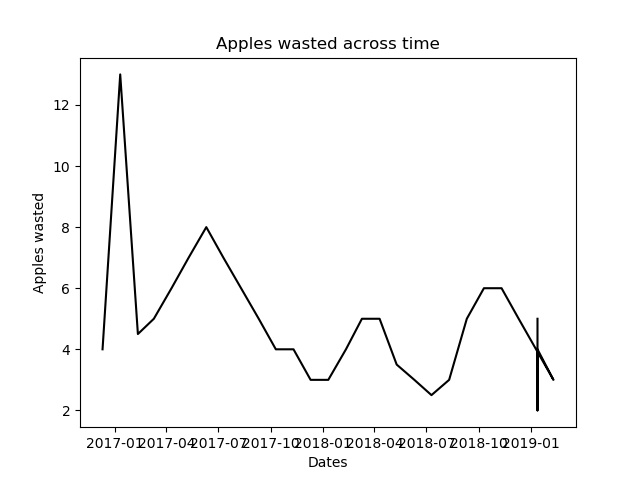
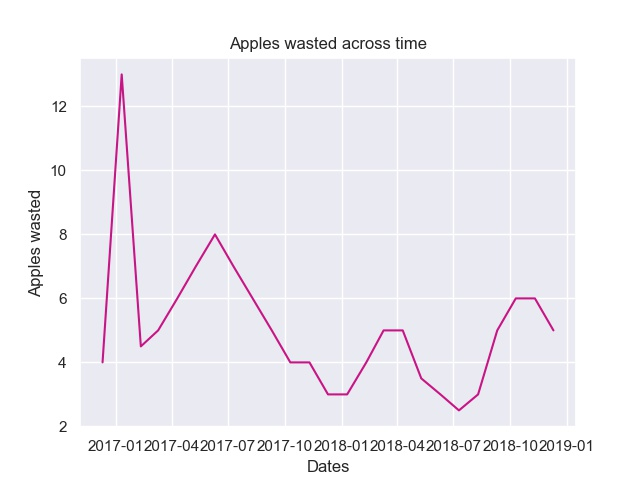
Frontend better

diff --git a/ooglorp/templates/index.html b/ooglorp/templates/index.html
@@ -63,7 +63,11 @@
 									<p class="para">{{food.amount}} of {{food.name}}, they expire on {{food.expiration}}</p>
 							</div>
 							<ul class="post-footer">
-								<li><form method = "post"><input type="submit" name="{{food.key}}" value="Pick Up"/></form></li>
+								<li><input type="submit" name="{{food.key}}" value="Pick Up" style="
+									border: none;
+				  color: black;
+				  padding: 10px 40px;
+				  cursor: pointer;"/></li>
 							</ul>
 						</div><!-- single-post -->
 

diff --git a/ooglorp/templates/stats.html b/ooglorp/templates/stats.html
@@ -67,9 +67,17 @@
 			</form>
 		</div>
 	</section><!-- section -->
-
-	<img src="{% static 'images/wasted.jpg' %}">
-	<img src="{% static 'images/ordered.jpg' %}">
+	<style>
+	img.two {
+	display: block;
+	margin-left: auto;
+	margin-right: auto;
+	height: 70%;
+	width: 50%;
+	}
+	</style>
+	<img class="two" src="{% static 'images/wasted.jpg' %}">
+	<img class="two" src="{% static 'images/ordered.jpg' %}">
 
 
 	<footer>

diff --git a/ooglorp/views.py b/ooglorp/views.py
@@ -18,7 +18,8 @@ import csv
 import pandas as pd
 from ooglorp.forms import StatsForm, EntryForm
 from ooglorp.models import Food
-
+import seaborn as sns
+sns.set() #matplotlib style
 
 #function to retrain the model based on the new data
 #returns model object
@@ -95,7 +96,7 @@ def save_wasted():
         #date = datetime(year=int(s[0:4]), month=int(s[0:2]), day=int(s[6:8]))
     x = matplotlib.dates.date2num(dates)
     #print(x, y)
-    plt.plot_date(x,y, 'k')
+    plt.plot_date(x,y, 'k', color='mediumvioletred')
     plt.xlabel('Dates')
     plt.ylabel('Apples wasted')
     plt.title('Apples wasted across time')
@@ -112,7 +113,7 @@ def save_ordered():
         #date = s.strftime("%Y%m%d")
         #date = datetime(year=int(s[0:4]), month=int(s[0:2]), day=int(s[6:8]))
     x = matplotlib.dates.date2num(dates)
-    plt.plot_date(x, y, 'k')
+    plt.plot_date(x, y, 'k', color='mediumvioletred')
     plt.xlabel('Dates')
     plt.ylabel('Apples ordered')
     plt.title('Apples ordered across time')

diff --git a/README.md b/README.md
@@ -24,8 +24,6 @@ Run server
 
 That way, it's in a separate virtual environment
 
-
-
 ## Problem Statement
 
 The Grapes of Wrath is a novel by John Steinbeck about the hardships farmers had to endure during the Dust Bowl and Great Depression. At one point, the Californian farmers put their crops in a giant mountain in the field and refuse to give the crops away. Instead,  they light the food on fire because they cannot sell it. The choice between burning the crops and donating them to those in need is one that many modern people face everyday. Restaurants, when reaching the end of their raw material’s lifespan, often throw away their materials without considering the alternative or mitigating procedures. A pressing social issue we don’t talk about often is that 63 million tons of food (165 billion dollars worth) is wasted annually and  40% of that waste comes from restaurants throwing away unused raw materials (ReFED). Often, restaurants order more food than they need in anticipation of demand from customers. However, without solid numerical backing, the estimates taken by restaurants owners are often grossly overshot.  In essence, restaurants are “burning” their food instead of connecting with those who need it. Our product, Bona, is a software as a service that alleviates this problem. First, restaurants will save money by using Machine Learning to predict demand and waste from the past. We use data logged and seasonality prediction from previous months to predict both the demand and the wastage in the upcoming months. Using computer vision and object recognition techniques, we keep track of how much food is unused at the end of inventory periods. We then advise the restaurant owner to order an adjusted value. Second, the platform gives people who need food the most and restaurants a way to connect when their inventory reflects the wastage. When restaurants have excess food, it will post on the website where anyone can reach out to the restaurant to pick up the food at an agreed upon location. Our solution reduces food waste two-fold, by using Machine Learning techniques to intelligently predict future orders, and in the case of wastage, provide a much needed platform for restaurant owners to distribute their food. 
